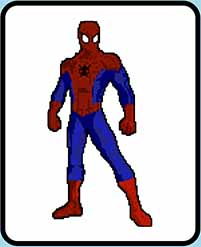
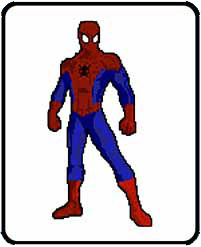
Background is implemented, and assests are updated so they show up better.

diff --git a/src/Screens/PlayLevelScreen.java b/src/Screens/PlayLevelScreen.java
@@ -15,6 +15,7 @@ import Level.HealthBarSprite;
 import Level.Map;
 import Level.Player;
 import Level.PlayerListener;
+import Maps.PlayLevelMap;
 import Maps.TestMap;
 import SpriteFont.SpriteFont;
 import Utils.Direction;
@@ -45,6 +46,8 @@ public class PlayLevelScreen extends Screen implements PlayerListener {
     private int select2;
     private String player1Selected;
     private String player2Selected;
+
+    protected PlayLevelMap background;
 
     public PlayLevelScreen(ScreenCoordinator screenCoordinator) {
         this.screenCoordinator = screenCoordinator;
@@ -118,6 +121,11 @@ public class PlayLevelScreen extends Screen implements PlayerListener {
         playerTwoText.setFontStyle(Font.BOLD);
         playerTwoText.setOutlineColor(Color.black);
 
+        //Making the backgroun picture for the play level screen.
+        //PlayLevelMap class holds the actaul image we are using here.
+        background = new PlayLevelMap("backgroundDark.jpeg");
+        background.setAdjustCamera(false);        
+
         //New Healthbar work:
         this.healthBar1 = new HealthBarSprite(new SpriteSheet(ImageLoader.load("HealthSheet.png", Color.black), 32, 8), 225, 10, "DEFAULT", player.getPlayerHealth(), player);
         this.healthBar2 = new HealthBarSprite(new SpriteSheet(ImageLoader.load("HealthSheet.png", Color.black), 32, 8), 400, 10, "DEFAULT", player2.getPlayerHealth(), player2);
@@ -171,6 +179,7 @@ public class PlayLevelScreen extends Screen implements PlayerListener {
         // based on screen state, draw appropriate graphics
         switch (playLevelScreenState) {
             case RUNNING:
+                background.draw(graphicsHandler);
                 map.draw(graphicsHandler);
                 player.draw(graphicsHandler);
                 playerOneText.draw(graphicsHandler);

diff --git a/src/Screens/CharacterSelectScreen.java b/src/Screens/CharacterSelectScreen.java
@@ -5,8 +5,6 @@ import Game.GameState;
 import Game.ScreenCoordinator;
 import GameObject.Sprite;
 
-import Level.Map;
-import Maps.CharacterMap;
 import SpriteFont.SpriteFont;
 
 import java.awt.*;
@@ -43,7 +41,7 @@ public class CharacterSelectScreen extends Screen {
     protected Sprite c2;
     protected Sprite c3;
     protected Sprite c4;
-    protected Map background;
+    protected Sprite background;
     protected int pointerLocationX, pointerLocationY;
     protected boolean playerPressedStart1 = false;
     protected boolean playerPressedStart2 = false;
@@ -202,9 +200,7 @@ public class CharacterSelectScreen extends Screen {
         line = new Sprite(ImageLoader.load("LINEb.jpg"));
         line.setHeight(line.getHeight()+100);
         line.setLocation(line.getX() + 372, line.getY());
-        // Background
-        background = new CharacterMap();
-        background.setAdjustCamera(false);
+        background = new Sprite(ImageLoader.load("White.jpg"));
         menuItemSelectedL = -1;
         menuItemSelectedR = -1;
         keyLocker.lockKey(Key.SPACE);
@@ -213,7 +209,7 @@ public class CharacterSelectScreen extends Screen {
 
     public void update() {
         // update background map (to play tile animations)
-        background.update(null);
+        //background.update(null);
 
         // if keys are pressed, change menu item "hovered" over
         if(Keyboard.isKeyDown(Key.S)){

diff --git a/src/Maps/PlayLevelMap.java b/src/Maps/PlayLevelMap.java
@@ -1,0 +1,32 @@
+package Maps;
+
+import Engine.GraphicsHandler;
+import Engine.ImageLoader;
+import GameObject.Sprite;
+import Level.Map;
+import Tilesets.CommonTileset;
+
+// Represents the map that is used as a background for the playable game screen.  To change background
+//simply change the image that corresponds to 'map' in the PlayLevelScreen class (line 126 'background object')
+public class PlayLevelMap extends Map {
+
+    // private Sprite cat, cat2;
+    private Sprite background;
+
+    public PlayLevelMap(String map) {
+        super("title_screen_map.txt", new CommonTileset());
+
+        background = new Sprite(ImageLoader.load(map));
+        background.setWidth(90);
+        background.setHeight(65);
+        background.setScale(9);
+        background.setLocation(background.getX()-25, background.getY());
+    }
+
+    @Override
+    public void draw(GraphicsHandler graphicsHandler) {
+        super.draw(graphicsHandler);
+        background.draw(graphicsHandler);
+    }
+
+}

diff --git a/src/Tilesets/CommonTileset.java b/src/Tilesets/CommonTileset.java
@@ -15,7 +15,8 @@ import java.util.ArrayList;
 public class CommonTileset extends Tileset {
 
     public CommonTileset() {
-        super(ImageLoader.load("CommonTileset(2).png"), 16, 16, 3);
+        super(ImageLoader.load("CommonTileset(3).png"), 16, 16, 3);
+        //super(ImageLoader.load("White.jpg"), 16, 16, 3);
     }
 
     @Override
